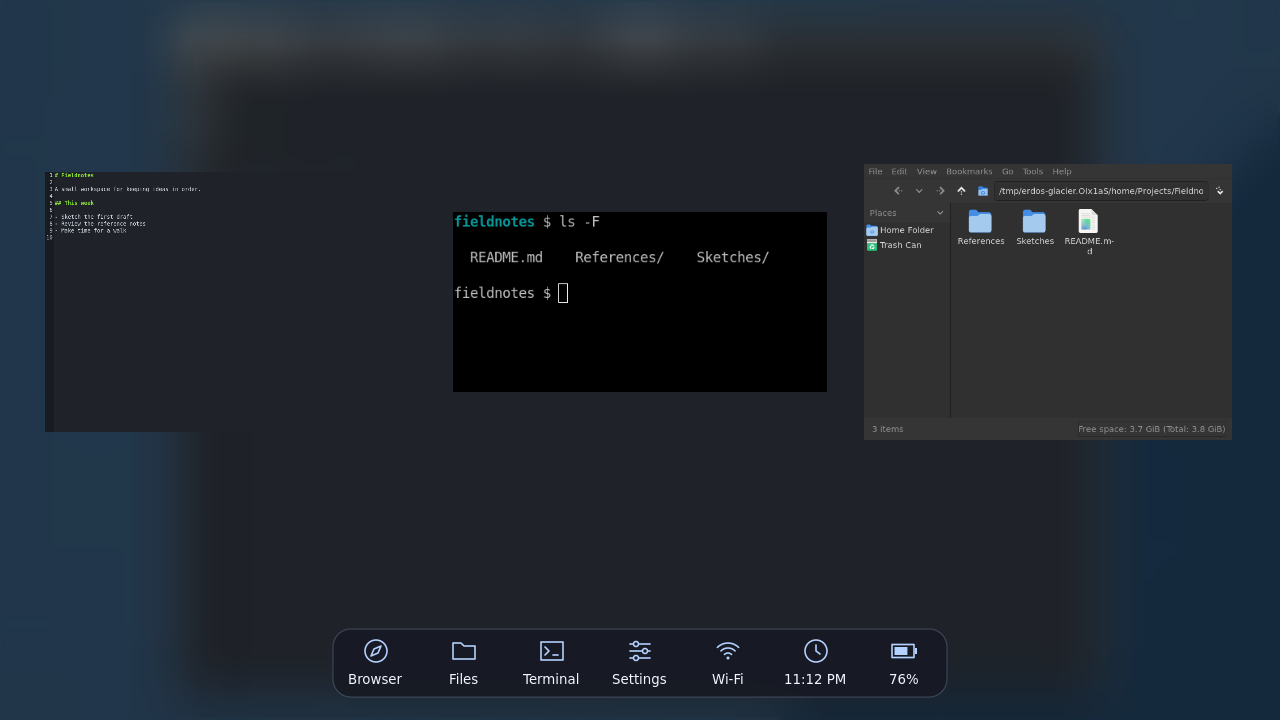
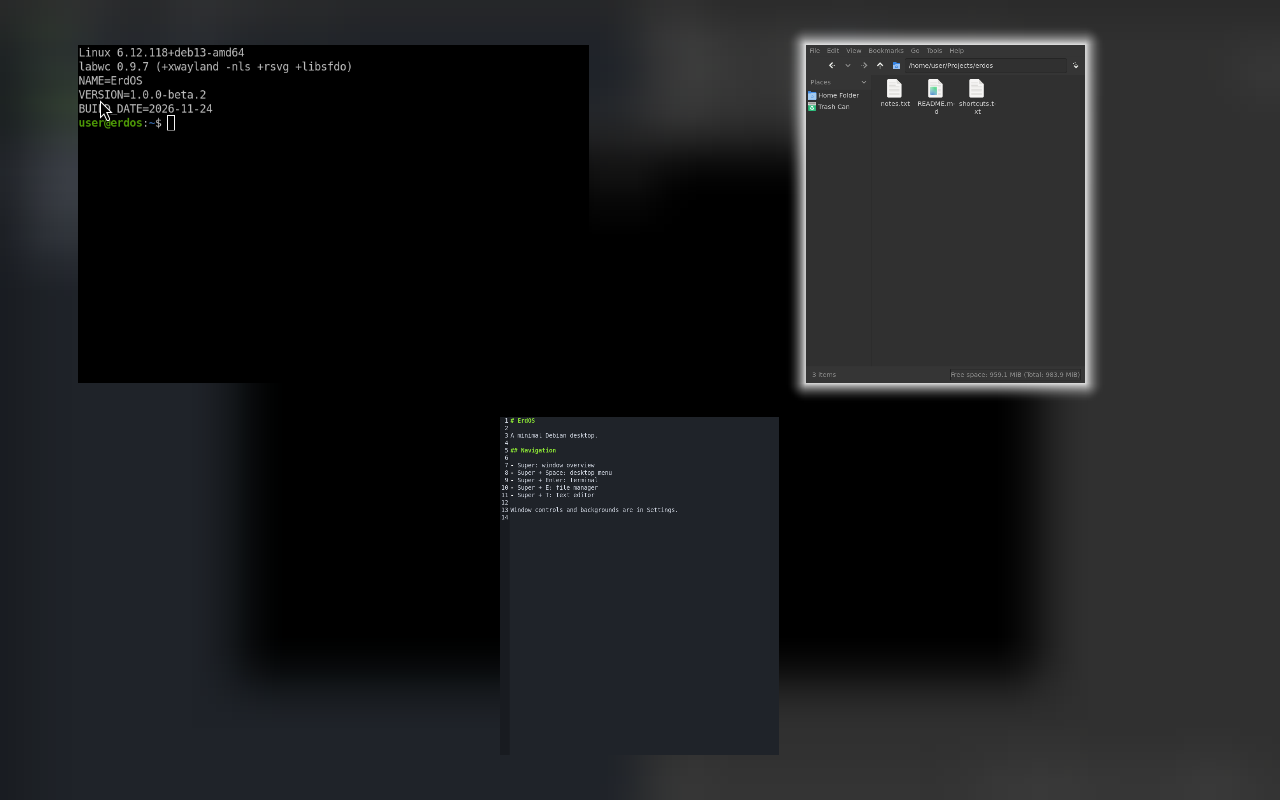
Refresh Beta 2 screenshots and showcase the window overview

diff --git a/docs/index.html b/docs/index.html
@@ -45,8 +45,8 @@
           </div>
         </div>
         <figure class="hero-preview">
-          <a href="assets/beta-desktop.png" aria-label="View the full-size Beta 2 desktop screenshot">
-            <img src="assets/beta-desktop.png" alt="ErdOS Beta 2 desktop with PCManFM" width="1280" height="800" fetchpriority="high">
+          <a href="assets/beta-desktop.png?v=8d197d8c84b4" aria-label="View the full-size Beta 2 desktop screenshot">
+            <img src="assets/beta-desktop.png?v=8d197d8c84b4" alt="ErdOS Beta 2 desktop with PCManFM" width="1280" height="800" fetchpriority="high">
           </a>
         </figure>
       </div>
@@ -70,19 +70,28 @@
         <h2 id="screenshots-title">Screenshots</h2>
         <div class="screenshot-grid">
           <figure>
-            <a href="assets/beta-desktop.png" aria-label="View the full-size Beta 2 desktop screenshot">
-              <img src="assets/beta-desktop.png" alt="ErdOS Beta 2 desktop with PCManFM" width="1280" height="800">
+            <a href="assets/live-window-overview.png?v=8724544108eb" aria-label="View the full-size window overview screenshot">
+              <img src="assets/live-window-overview.png?v=8724544108eb" alt="Beta 2 window overview showing live previews of Twig, PCManFM and Sakura" width="1280" height="800" loading="lazy">
             </a>
+            <figcaption>Window overview</figcaption>
           </figure>
           <figure>
-            <a href="assets/tiled-apps.png" aria-label="View the full-size tiled windows screenshot">
-              <img src="assets/tiled-apps.png" alt="Twig editing a Markdown file on the left and PCManFM showing its project folder on the right" width="1280" height="720">
+            <a href="assets/tiled-apps.png?v=5fe6a588c30e" aria-label="View the full-size keyboard tiling screenshot">
+              <img src="assets/tiled-apps.png?v=5fe6a588c30e" alt="Twig and PCManFM tiled side by side on Beta 2" width="1280" height="800" loading="lazy">
             </a>
+            <figcaption>Keyboard tiling</figcaption>
           </figure>
           <figure>
-            <a href="assets/desktop-menu.png?v=glacier" aria-label="View the full-size desktop menu screenshot">
-              <img src="assets/desktop-menu.png?v=glacier" alt="ErdOS desktop menu open beside the file manager and editor, with shortcuts to apps, workspaces and Settings" width="1280" height="720">
+            <a href="assets/desktop-menu.png?v=9cc79535b002" aria-label="View the full-size desktop menu screenshot">
+              <img src="assets/desktop-menu.png?v=9cc79535b002" alt="Beta 2 desktop menu with default apps, Settings and the 12-hour clock" width="1280" height="800" loading="lazy">
             </a>
+            <figcaption>Desktop menu</figcaption>
+          </figure>
+          <figure>
+            <a href="assets/settings.png?v=fdf124ed0018" aria-label="View the full-size settings screenshot">
+              <img src="assets/settings.png?v=fdf124ed0018" alt="Beta 2 Settings showing default application choices" width="1280" height="800" loading="lazy">
+            </a>
+            <figcaption>Settings</figcaption>
           </figure>
         </div>
       </div>

diff --git a/docs/guide.html b/docs/guide.html
@@ -134,7 +134,7 @@ sudo apt install --no-install-recommends swaylock swayidle</code></pre>
           <tr><td>4 fingers up / down</td><td>Disabled by default; configurable in Settings</td></tr>
         </tbody></table></div>
         <p>The overview shows live windows across workspaces. Click a window, or use the arrow keys and Enter. The arrow keys reveal a white selection glow. Tap Super again or swipe three fingers down to close the overview. Use the desktop menu for applications, the 12-hour clock and battery status.</p>
-        <figure><img src="assets/beta-desktop.png" width="1280" height="800" alt="ErdOS Beta 2 desktop with PCManFM" loading="lazy"><figcaption>ErdOS 1 Beta 2. PCManFM runs on demand; no panel or overview dock.</figcaption></figure>
+        <figure><img src="assets/live-window-overview.png?v=8724544108eb" width="1280" height="800" alt="Beta 2 overview with live previews of open windows" loading="lazy"><figcaption>Tap Super or swipe three fingers up to open the window overview.</figcaption></figure>
         <p>Workspaces remain dynamic with one empty spare after the last occupied/current workspace. Empty gaps retain their numbers; only unused trailing spaces disappear. Use the Workspaces submenu or Super + Shift + O to see workspaces and their windows.</p>
         <p>Change swipes in Settings → Gestures. In Settings → Menu, independently toggle three-finger tap/click and Super + right-click. The touchpad option replaces middle-click; disabling it restores middle-click. Mouse middle-click, desktop right-click and Super + Space remain available. Hardware must support tapping/clickfinger as applicable.</p>
       </section>

diff --git a/docs/assets/home.css b/docs/assets/home.css
@@ -44,7 +44,8 @@
 .feature-grid dd { margin: 5px 0 0; color: #c9d2dd; }
 
 .screenshot-grid { display: grid; grid-template-columns: repeat(2, minmax(0, 1fr)); gap: 26px 20px; }
-.screenshot-grid a { display: grid; place-items: center; aspect-ratio: 16 / 9; background: #111315; border: 1px solid var(--line); }
+.screenshot-grid a { display: grid; place-items: center; aspect-ratio: 8 / 5; background: #111315; border: 1px solid var(--line); }
+.screenshot-grid figcaption { margin-top: 8px; font-size: 14px; color: var(--muted); }
 .screenshot-grid a:hover { border-color: var(--link); }
 .screenshot-grid img { display: block; width: 100%; height: 100%; object-fit: contain; min-height: 0; }
 
